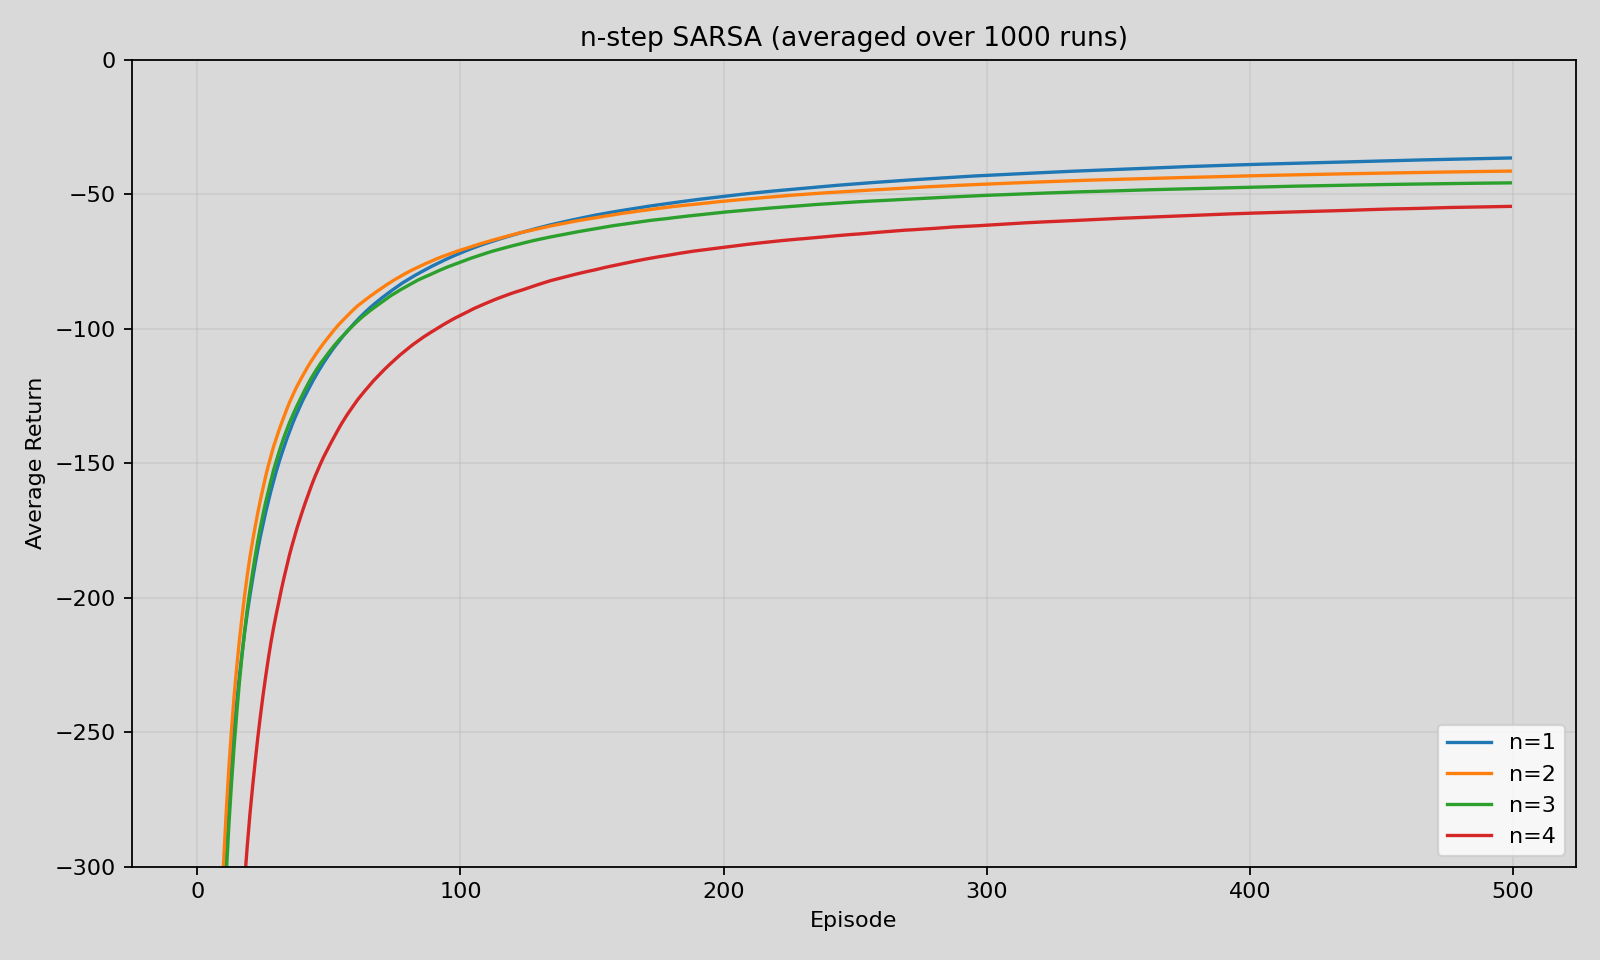
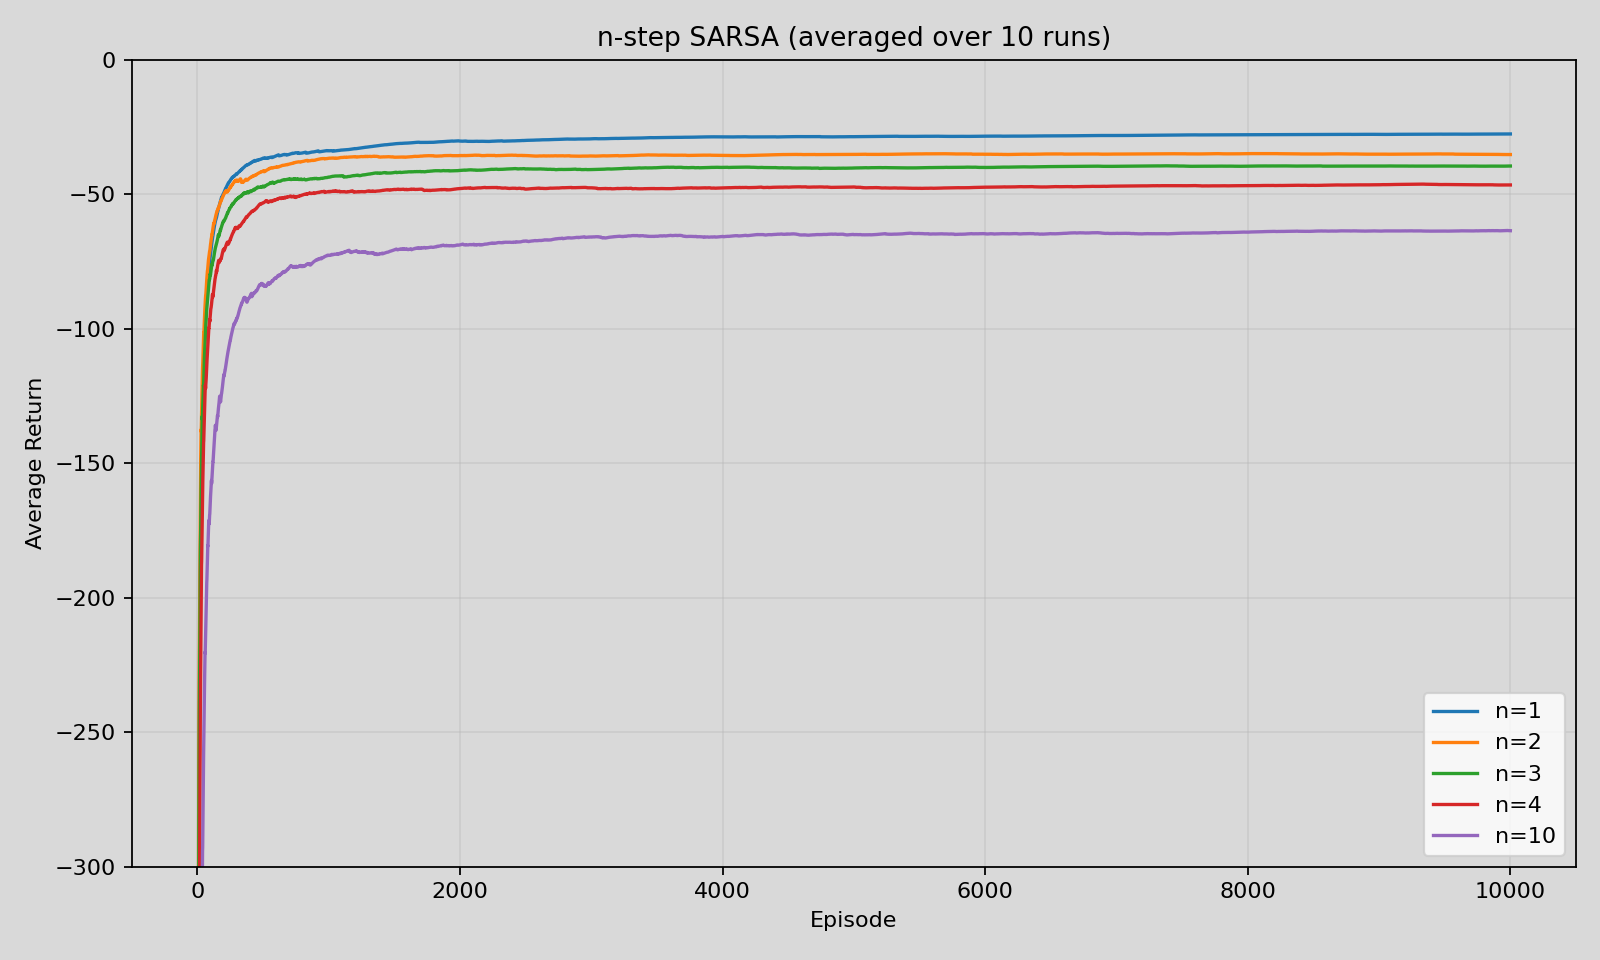
stuff

diff --git a/sarsa/n_step_sarsa.py b/sarsa/n_step_sarsa.py
@@ -3,6 +3,7 @@ import random
 import argparse
 import sys
 import time
+from collections import Counter
 from typing import Dict, Iterable, List, Optional, Tuple
 
 import numpy as np
@@ -274,8 +275,7 @@ def n_step_sarsa(
     return Q_table, all_steps
 
 
-def q_visualizer(world: World, q: np.ndarray, title: Optional[str] = None) -> np.ndarray:
-    new_q = np.full((world.width, world.height), "", dtype=object)
+def _action_symbols() -> Dict[str, str]:
     encoding = sys.stdout.encoding or ""
     unicode_ok = True
     try:
@@ -283,35 +283,107 @@ def q_visualizer(world: World, q: np.ndarray, title: Optional[str] = None) -> np
     except UnicodeEncodeError:
         unicode_ok = False
 
-    action_symbols = (
+    return (
         {"up": "↑", "down": "↓", "left": "←", "right": "→"}
         if unicode_ok
         else {"up": "^", "down": "v", "left": "<", "right": ">"}
     )
+
+
+def best_action_indices(q_state: np.ndarray, tie_tol: float) -> List[int]:
+    max_q = float(np.max(q_state))
+    return [idx for idx, val in enumerate(q_state) if abs(float(val) - max_q) <= tie_tol]
+
+
+def policy_from_q(world: World, q: np.ndarray, tie_tol: float = 1e-6) -> np.ndarray:
+    policy = np.full((world.width, world.height), "", dtype=object)
+    action_symbols = _action_symbols()
+    tie_marker = "*"
+
     for x in range(world.width):
         for y in range(world.height):
             if isinstance(world, CliffWorld) and world.is_cliff(x, y):
-                new_q[x, y] = "C"
+                policy[x, y] = "C"
             elif world.is_terminal(x, y):
-                new_q[x, y] = "+"
+                policy[x, y] = "+"
             elif world.is_obstacle(x, y):
-                new_q[x, y] = "#"
+                policy[x, y] = "#"
             else:
-                new_q[x, y] = action_symbols[ACTIONS[int(np.argmax(q[x, y, :]))]]
+                best_idxs = best_action_indices(q[x, y, :], tie_tol=tie_tol)
+                if len(best_idxs) == 1:
+                    policy[x, y] = action_symbols[ACTIONS[best_idxs[0]]]
+                else:
+                    policy[x, y] = tie_marker
+    return policy
 
+
+def majority_policy_from_q_runs(world: World, q_runs: np.ndarray, tie_tol: float = 1e-6) -> np.ndarray:
+    if q_runs.ndim != 4:
+        raise ValueError(f"Expected q_runs with shape (runs, width, height, actions), got {q_runs.shape}")
+    if q_runs.shape[0] == 0:
+        raise ValueError("q_runs must contain at least one run")
+
+    per_run_policies = [policy_from_q(world, q_runs[i], tie_tol=tie_tol) for i in range(q_runs.shape[0])]
+    aggregated = np.full((world.width, world.height), "", dtype=object)
+    tie_marker = "*"
+
+    for x in range(world.width):
+        for y in range(world.height):
+            if isinstance(world, CliffWorld) and world.is_cliff(x, y):
+                aggregated[x, y] = "C"
+                continue
+            if world.is_terminal(x, y):
+                aggregated[x, y] = "+"
+                continue
+            if world.is_obstacle(x, y):
+                aggregated[x, y] = "#"
+                continue
+
+            votes = Counter(str(policy[x, y]) for policy in per_run_policies)
+            top_count = max(votes.values())
+            winners = [symbol for symbol, count in votes.items() if count == top_count]
+            aggregated[x, y] = winners[0] if len(winners) == 1 else tie_marker
+
+    return aggregated
+
+
+def print_policy_legend() -> None:
+    action_symbols = _action_symbols()
+    print(
+        "Legend: "
+        f"{action_symbols['up']}=up {action_symbols['down']}=down "
+        f"{action_symbols['left']}=left {action_symbols['right']}=right "
+        "C=cliff +=goal *=tie"
+    )
+
+
+def q_visualizer_policy(world: World, policy_map: np.ndarray, title: Optional[str] = None) -> np.ndarray:
     if title is None:
         title = "Best action at each state (arrows show direction):"
     print(title)
 
-    # table = np.flipud(new_q.T)
-    table = new_q.T
+    table = policy_map.T
     x_header = "     " + " ".join(f"{x:>2}" for x in range(world.width))
     print(x_header)
     for row_idx, row in enumerate(table):
         display_row = world.height - row_idx
         print(f"row={display_row:>2} | " + " ".join(f"{str(cell):>2}" for cell in row))
 
-    return new_q
+    return policy_map
+
+
+def q_visualizer(
+    world: World,
+    q: Optional[np.ndarray] = None,
+    title: Optional[str] = None,
+    policy_map: Optional[np.ndarray] = None,
+    tie_tol: float = 1e-6,
+) -> np.ndarray:
+    if policy_map is None:
+        if q is None:
+            raise ValueError("Either q or policy_map must be provided to q_visualizer")
+        policy_map = policy_from_q(world, q, tie_tol=tie_tol)
+    return q_visualizer_policy(world, policy_map, title=title)
 
 
 def run_validation_checks(results: Dict[str, object], episodes: int) -> None:
@@ -327,8 +399,18 @@ def run_validation_checks(results: Dict[str, object], episodes: int) -> None:
     assert done is True, "Goal state should terminate the episode"
     assert reward == -1.0, "Goal step reward should be -1"
 
+    # Unique max action selects exactly one action index.
+    assert best_action_indices(np.array([0.0, 1.0, -2.0, 0.5]), tie_tol=1e-6) == [1]
+    # Near-equal best actions are treated as ties within tolerance.
+    assert best_action_indices(np.array([1.0, 1.0 + 5e-7, 0.0, -1.0]), tie_tol=1e-6) == [0, 1]
+    # Cliff/goal encoding must override action glyphs in policy visualization.
+    test_q = np.zeros((env.width, env.height, len(ACTIONS)))
+    policy_map = policy_from_q(env, test_q, tie_tol=1e-6)
+    assert policy_map[1, 0] == "C", "Cliff cells must render as C"
+    assert policy_map[env.goal_state[0], env.goal_state[1]] == "+", "Goal must render as +"
+
     mean_returns_by_n = results["mean_returns_by_n"]
-    assert set(mean_returns_by_n.keys()) == {1, 2, 3, 4}, "Sweep must contain n={1,2,3,4}"
+    assert set(mean_returns_by_n.keys()) == {1, 2, 3, 4, 10}, "Sweep must contain n={1,2,3,4}"
 
     for n, curve in mean_returns_by_n.items():
         assert curve.shape == (episodes,), f"Mean return curve for n={n} has wrong shape"
@@ -363,6 +445,8 @@ def run_cliff_nstep_experiment(
     seed_base: int = 123,
     out_path: str = "sarsa/artifacts/cliff_nstep_returns.png",
     visualize_policy: bool = True,
+    policy_source: str = "eval_greedy",
+    tie_tol: float = 1e-6,
     debug: bool = False,
 ) -> Dict[str, object]:
     import matplotlib
@@ -371,8 +455,13 @@ def run_cliff_nstep_experiment(
     import matplotlib.pyplot as plt
 
     n_values = list(n_values)
+    valid_policy_sources = {"eval_greedy", "single_run", "mean_q"}
+    if policy_source not in valid_policy_sources:
+        raise ValueError(f"policy_source must be one of {sorted(valid_policy_sources)}, got {policy_source!r}")
+
     mean_returns_by_n: Dict[int, np.ndarray] = {}
     mean_q_by_n: Dict[int, np.ndarray] = {}
+    q_runs_by_n: Dict[int, np.ndarray] = {}
 
     _debug_print(
         debug,
@@ -421,7 +510,9 @@ def run_cliff_nstep_experiment(
             )
 
         mean_returns_by_n[n] = np.mean(np.vstack(run_returns), axis=0)
-        mean_q_by_n[n] = np.mean(np.stack(run_q, axis=0), axis=0)
+        q_runs = np.stack(run_q, axis=0)
+        q_runs_by_n[n] = q_runs
+        mean_q_by_n[n] = np.mean(q_runs, axis=0)
         _debug_print(debug, f"[experiment] aggregated n={n} in {time.perf_counter() - n_start:.2f}s")
 
     os.makedirs(os.path.dirname(out_path), exist_ok=True)
@@ -435,7 +526,7 @@ def run_cliff_nstep_experiment(
         plt.plot(avg, label=f"n={n}")
     plt.xlabel("Episode")
     plt.ylabel("Average Return")
-    plt.title("n-step SARSA (averaged over 1000 runs)")
+    plt.title(f"n-step SARSA (averaged over {runs_per_n} runs)")
     plt.ylim(-300, 0)
     plt.legend(loc="lower right")
     plt.grid(alpha=0.3)
@@ -454,10 +545,15 @@ def run_cliff_nstep_experiment(
     print(f"Best n (final-{window} mean): n={best_n}")
     print(f"Saved plot: {out_path}")
     if visualize_policy:
-        q_visualizer(world, mean_q_by_n[1], title=f"Best policy for n={1}:")
-        q_visualizer(world, mean_q_by_n[2], title=f"Best policy for n={2}:")
-        q_visualizer(world, mean_q_by_n[3], title=f"Best policy for n={3}:")
-        q_visualizer(world, mean_q_by_n[4], title=f"Best policy for n={4}:")
+        print_policy_legend()
+        for n in n_values:
+            if policy_source == "eval_greedy":
+                policy_map = majority_policy_from_q_runs(world, q_runs_by_n[n], tie_tol=tie_tol)
+            elif policy_source == "single_run":
+                policy_map = policy_from_q(world, q_runs_by_n[n][-1], tie_tol=tie_tol)
+            else:
+                policy_map = policy_from_q(world, mean_q_by_n[n], tie_tol=tie_tol)
+            q_visualizer_policy(world, policy_map, title=f"Best policy for n={n} ({policy_source}):")
 
     _debug_print(debug, f"[experiment] completed in {time.perf_counter() - experiment_start:.2f}s")
 
@@ -471,8 +567,8 @@ def run_cliff_nstep_experiment(
 
 def _parse_args() -> argparse.Namespace:
     parser = argparse.ArgumentParser(description="Run Cliff World n-step SARSA experiment and visualize learned policy.")
-    parser.add_argument("--episodes", type=int, default=500, help="Episodes per run (default: 500)")
-    parser.add_argument("--runs", type=int, default=1000, help="Number of runs averaged per n (default: 1000)")
+    parser.add_argument("--episodes", type=int, default=10000, help="Episodes per run (default: 500)")
+    parser.add_argument("--runs", type=int, default=10, help="Number of runs averaged per n (default: 1000)")
     parser.add_argument("--alpha", type=float, default=0.5, help="Learning rate alpha (default: 0.5)")
     parser.add_argument("--epsilon", type=float, default=0.1, help="Epsilon-greedy exploration rate (default: 0.1)")
     parser.add_argument("--gamma", type=float, default=1.0, help="Discount factor gamma (default: 1.0)")
@@ -494,13 +590,25 @@ def _parse_args() -> argparse.Namespace:
         action="store_true",
         help="Enable detailed debug tracing for runs, episodes, and step heartbeats.",
     )
+    parser.add_argument(
+        "--policy-source",
+        choices=("eval_greedy", "single_run", "mean_q"),
+        default="eval_greedy",
+        help="Policy visualization source (default: eval_greedy).",
+    )
+    parser.add_argument(
+        "--tie-tol",
+        type=float,
+        default=1e-6,
+        help="Tolerance for marking near-equal best actions as ties (default: 1e-6).",
+    )
     return parser.parse_args()
 
 
 if __name__ == "__main__":
     args = _parse_args()
     results = run_cliff_nstep_experiment(
-        n_values=(1, 2, 3, 4),
+        n_values=(1, 2, 3, 4, 10),
         episodes=args.episodes,
         runs_per_n=args.runs,
         alpha=args.alpha,
@@ -510,6 +618,8 @@ if __name__ == "__main__":
         seed_base=args.seed_base,
         out_path=args.out,
         visualize_policy=not args.no_visualizer,
+        policy_source=args.policy_source,
+        tie_tol=args.tie_tol,
         debug=args.debug,
     )
     run_validation_checks(results, episodes=args.episodes)

diff --git a/sarsa/main.py b/sarsa/main.py
@@ -28,6 +28,18 @@ def parse_args() -> argparse.Namespace:
         action="store_true",
         help="Disable terminal policy visualization.",
     )
+    parser.add_argument(
+        "--policy-source",
+        choices=("eval_greedy", "single_run", "mean_q"),
+        default="eval_greedy",
+        help="Policy visualization source (default: eval_greedy).",
+    )
+    parser.add_argument(
+        "--tie-tol",
+        type=float,
+        default=1e-6,
+        help="Tolerance for marking near-equal best actions as ties (default: 1e-6).",
+    )
     return parser.parse_args()
 
 
@@ -45,6 +57,8 @@ def main() -> None:
         seed_base=args.seed_base,
         out_path=args.out,
         visualize_policy=not args.no_visualizer,
+        policy_source=args.policy_source,
+        tie_tol=args.tie_tol,
         debug=args.debug,
     )
     
